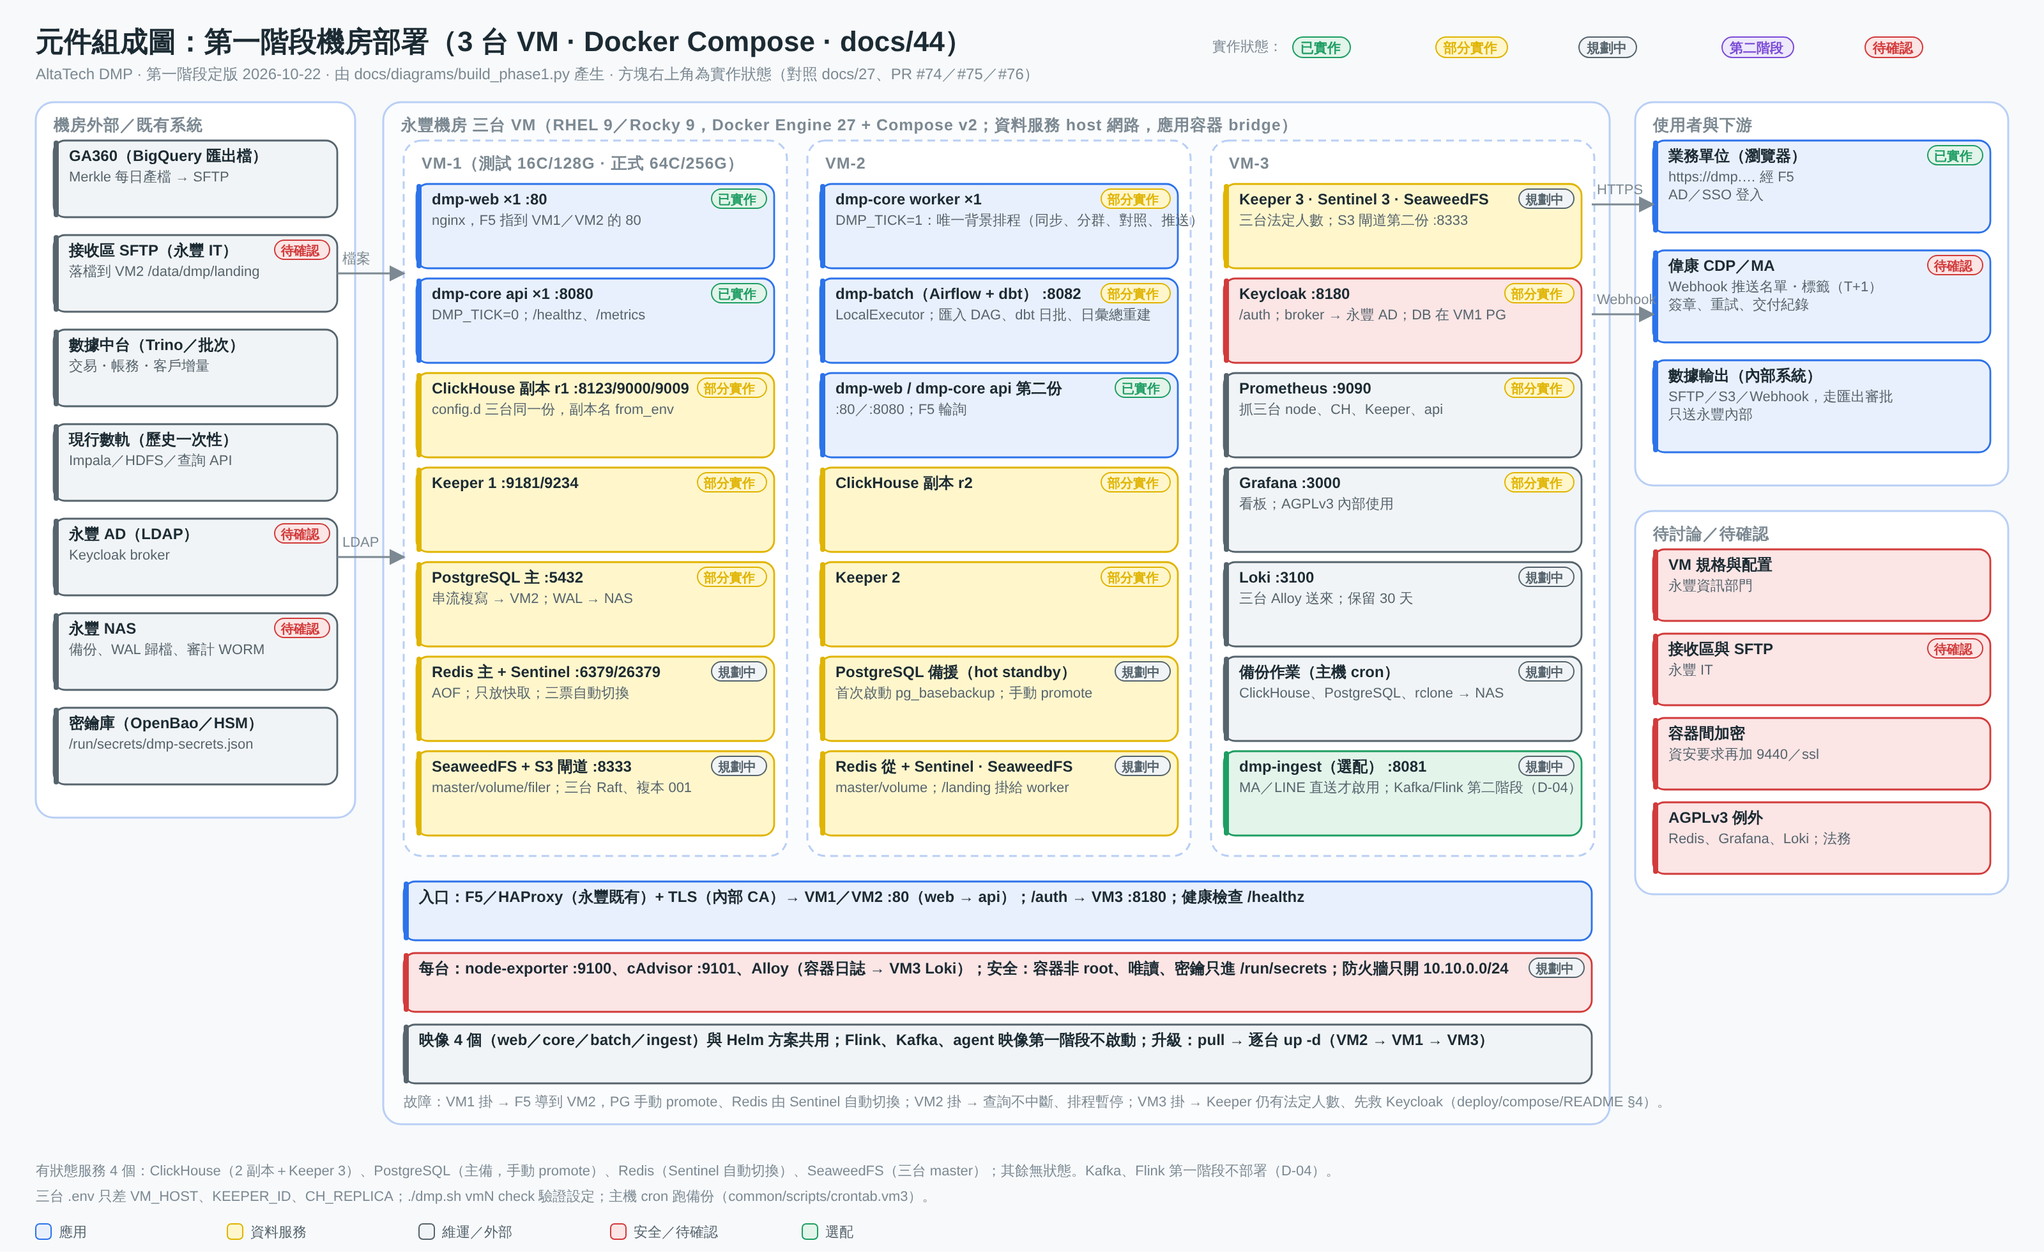
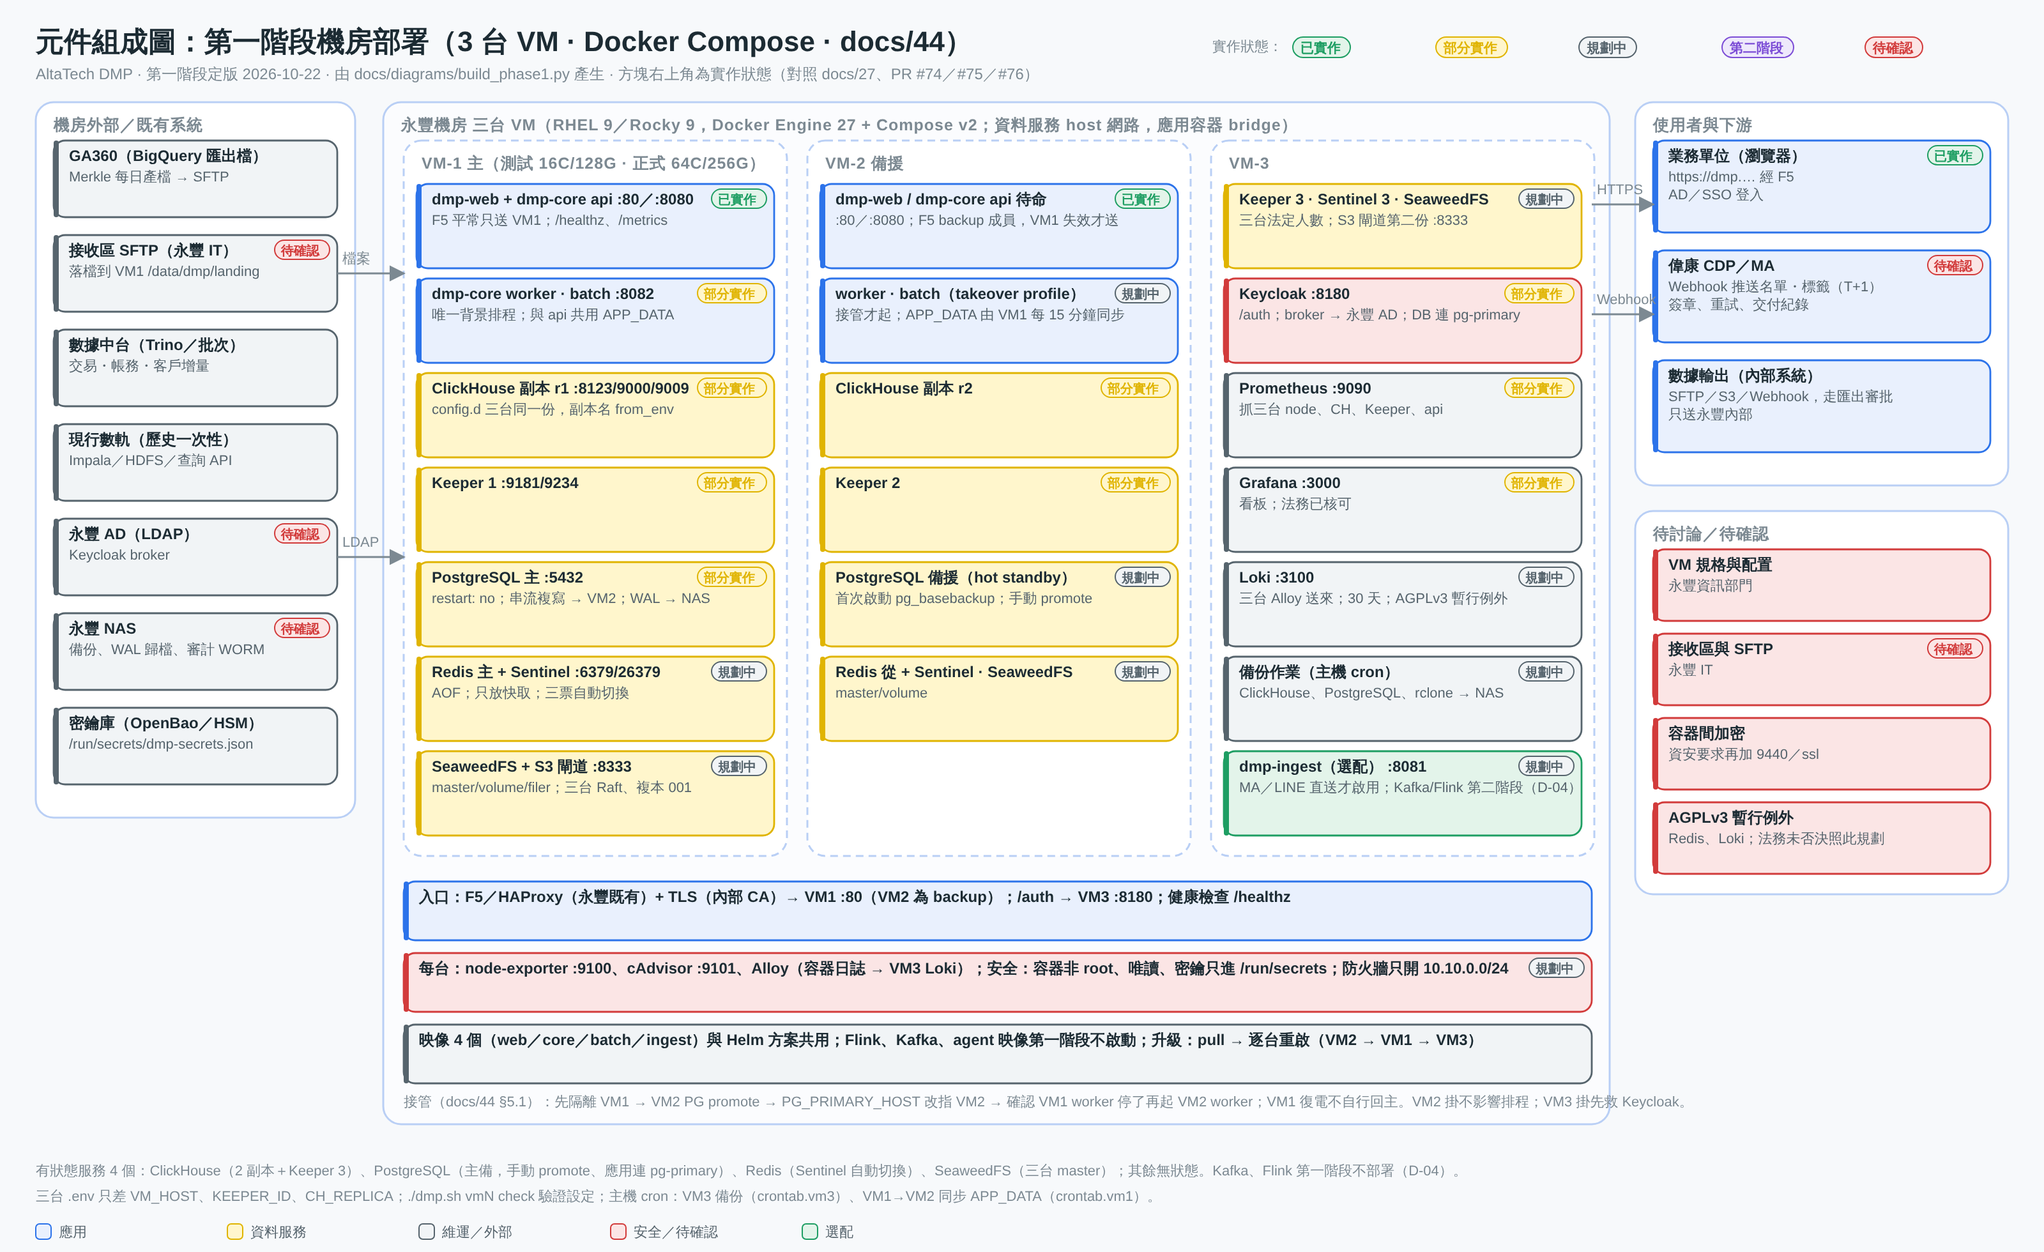
第一階段兩張圖改成主備拓樸，與 docs/44、deploy/compose 一致
圖上原本畫成 VM1、VM2 兩份 API 由 F5 輪詢、worker 與 batch 在 VM2，
和 docs/44 定案的主備做法、#76 的 compose 不一致，評審時會誤導。

- VM1 主：web、api、worker、batch 同一台共用 APP_DATA；VM2 備援待命，
  worker、batch 接管才起；F5 平常只送 VM1
- 應用與 Keycloak 一律連 pg-primary；VM1 主庫不自動重啟
- 故障說明改成 §5.1 接管順序（先隔離 VM1）
- 授權用語：Grafana 法務已核可；Redis、Loki 為暫行例外，法務未否決照此規劃

diff --git a/docs/diagrams/build_phase1.py b/docs/diagrams/build_phase1.py
@@ -11,7 +11,7 @@ build.STATUS[:0] = [
     ("Docker Compose", "planned"), ("3 台 VM", "planned"), ("Redis", "planned"), ("Loki", "planned"), ("Alloy", "planned"), ("cAdvisor", "planned"), ("Sentinel", "planned"), ("Keeper", "partial"),
     ("F5", "confirm"), ("SFTP", "confirm"), ("永豐 AD", "confirm"), ("永豐 NAS", "confirm"), ("偉康 CDP", "confirm"),
     ("微批處理", "partial"), ("去重", "partial"), ("先刪再寫", "planned"), ("OneID 歸戶", "done"), ("回補對照", "planned"), ("one_id_eff", "planned"),
-    ("dmp-core worker", "partial"), ("dmp-core api", "done"), ("dmp-batch（Airflow）", "partial"), ("SeaweedFS", "planned"), ("PostgreSQL 主", "partial"), ("PostgreSQL 備援", "planned"),
+    ("dmp-core worker", "partial"), ("dmp-core api", "done"), ("dmp-batch（Airflow）", "partial"), ("SeaweedFS", "planned"), ("PostgreSQL 主", "partial"), ("PostgreSQL 備援", "planned"), ("takeover", "planned"),
     ("ClickHouse 副本", "partial"), ("備份作業", "planned"), ("Prometheus + Grafana", "partial"), ("語意層", "done"), ("分析 API", "done"), ("分群與標籤", "partial"), ("名單推送", "partial"),
     ("日彙總重建", "partial"), ("Webhook 推送", "partial"), ("業務單位", "done"), ("個資守門", "done"), ("標準化", "partial"), ("入倉", "partial"), ("接收區", "confirm"),
     ("GA360 日批匯出檔", "done"), ("數據中台", "confirm"), ("舊平台歷史", "done"), ("MA 發送紀錄", "confirm"),
@@ -31,14 +31,14 @@ def system_architecture():
     s.group(L, 80, W, 100, "體驗層  Experience")
     for i, (t, ls) in enumerate([("DMP Web（React）", ["總覽／事件／漏斗／留存／路徑／歸因／用戶列表", "分群標籤／數據整合／權限中心／系統監控"]), ("業務單位（瀏覽器）", ["永豐 AD／SSO 登入", "儀表板、書籤、自助分析"]), ("偉康 CDP／MA", ["名單・標籤 Webhook 推送（T+1）", "MA 發送紀錄每日回流（待討論）"]), ("AI 工作台", ["技能庫、問數", "第二階段，部署套件保留"])]):
         s.box(L + 14 + i * 300, 110, 285, 60, t, ls, "purple" if i == 3 else "brand")
-    s.group(L, 195, W, 110, "語意與服務層  Semantic & Service（dmp-core api ×2，Python / FastAPI）")
+    s.group(L, 195, W, 110, "語意與服務層  Semantic & Service（dmp-core api：VM1 主、VM2 備援；Python / FastAPI）")
     for i, (t, ls) in enumerate([("語意層 + 查詢編譯器", ["YAML 語意定義 → ClickHouse SQL", "用戶口徑一律用 one_id_eff（回補換算）"]), ("分析 API", ["事件、漏斗、留存、路徑、歸因、用戶列表", "自定義 SQL 沙箱（sql_user profile）"]), ("分群與標籤 / OneID API", ["規則 → Bitmap；標籤 10 種；審批", "ID 綁定、人工合併（寫對照）、DSAR"]), ("Policy Engine", ["模組權限 → 行級 → 欄位隱碼 L0–L4 → 審批", "UI 與 REST 共用；每次授權寫審計"])]):
         s.box(L + 14 + i * 300, 225, 285, 70, t, ls, "brand")
     s.group(L, 320, W, 120, "處理層  微批處理（dmp-core worker ×1 ＋ dmp-batch Airflow＋dbt；ClickHouse SQL；第一階段不上 Flink）")
     for i, (t, ls) in enumerate([("匯入 + 個資守門", ["接收區檔案／Trino 增量 → 暫存表", "L4 欄位不進倉；個資樣式命中整列隔離"]), ("標準化 + 去重", ["橋接轉名、時間轉 UTC、HMAC 代碼化", "行為：time（毫秒）＋event_id；線下不去重"]), ("OneID 歸戶 + 回補對照", ["dictGet(id_map) 寫入時歸戶，事件不改寫", "登入 → 寫對照；查詢時換算"]), ("入倉 + 日彙總重建", ["ReplacingMergeTree，只新增／刪除", "L1 按日重建（近 8 天每日）；分群例行"])]):
         s.box(L + 14 + i * 300, 350, 285, 78, t, ls, "teal")
     s.group(L, 455, W, 110, "儲存層  Storage（四個有狀態服務，全部在永豐機房）")
-    for i, (t, ls, c) in enumerate([("ClickHouse ×2 + Keeper ×3", ["events（L0）、日彙總（L1）、Bitmap", "users／dim_*／id_map、回補對照字典"], "yellow"), ("PostgreSQL 主備 + pgvector", ["控制面：角色、審批、審計索引、分群定義", "Airflow 中繼資料、Keycloak"], "yellow"), ("Redis 主從 + Sentinel", ["查詢快取、估數快取、登入前狀態", "AGPLv3 內部使用例外（待法務）"], "yellow"), ("SeaweedFS（三台，S3）", ["master ×3、複本 001；備份桶、冷層", "→ rclone 同步到永豐 NAS"], "yellow")]):
+    for i, (t, ls, c) in enumerate([("ClickHouse ×2 + Keeper ×3", ["events（L0）、日彙總（L1）、Bitmap", "users／dim_*／id_map、回補對照字典"], "yellow"), ("PostgreSQL 主備 + pgvector", ["控制面：角色、審批、審計、登入 session", "Airflow 中繼資料、Keycloak；連 pg-primary"], "yellow"), ("Redis 主從 + Sentinel", ["查詢快取、估數快取", "AGPLv3 暫行例外（法務未否決照此規劃）"], "yellow"), ("SeaweedFS（三台，S3）", ["master ×3、複本 001；備份桶、冷層", "→ rclone 同步到永豐 NAS"], "yellow")]):
         s.box(L + 14 + i * 300, 485, 285, 68, t, ls, c)
     s.group(L, 580, W, 110, "接入層  Ingestion（檔案／表 → 暫存表，每日或每 15 分鐘）")
     for i, (t, ls) in enumerate([("GA360 日批匯出檔", ["BigQuery → CSV／Parquet（Merkle 送出）", "每日產檔 T+1，資料新鮮度 T-2"]), ("接收區（SFTP，永豐 IT）", ["GA 匯出檔、MA 發送紀錄落檔", "worker 唯讀掛載 /landing"]), ("數據中台（Trino／批次）", ["交易・帳務・客戶：每日或 15 分鐘增量", "方式待討論；Kafka 第一階段不用"]), ("舊平台歷史（一次性）", ["Impala／HDFS／查詢 API → 2024-01 起", "走同一套標準化與歸戶"])]):
@@ -59,13 +59,13 @@ def system_architecture():
     s.box(X + 12, 238, GW - 24, 56, "審計與法遵", ["audit_log append-only → NAS", "匯出浮水印、揭露申請、DSAR"], "red")
     s.group(X, 320, GW, 160, "觀測  Observability（VM3）")
     s.box(X + 12, 350, GW - 24, 56, "Prometheus + Grafana", ["node、ClickHouse、Keeper、API /metrics", "告警 → Email／LINE（/v1/ops/notify）"], "gray")
-    s.box(X + 12, 414, GW - 24, 56, "Loki + Alloy", ["三台容器 stdout（Alloy 收），保留 30 天", "Loki AGPLv3 內部使用例外（待法務）"], "gray")
-    s.group(X, 495, GW, 232, "部署  Delivery（docs/07 §1.3、deploy/compose）")
-    s.box(X + 12, 525, GW - 24, 72, "3 台 VM Docker Compose", ["VM1 web/api/CH r1/PG 主/Redis 主", "VM2 worker/batch/CH r2/PG 備", "VM3 Keeper 3/Keycloak/監控/備份；docs/44"], "gray")
+    s.box(X + 12, 414, GW - 24, 56, "Loki + Alloy", ["三台容器 stdout（Alloy 收），保留 30 天", "Loki AGPLv3 暫行例外（法務未否決照此規劃）"], "gray")
+    s.group(X, 495, GW, 232, "部署  Delivery（docs/44、deploy/compose）")
+    s.box(X + 12, 525, GW - 24, 72, "3 台 VM Docker Compose", ["VM1 主：web/api/worker/batch/CH r1/PG 主", "VM2 備援：web/api 待命/CH r2/PG 備", "VM3 Keeper 3/Keycloak/監控/備份；docs/44"], "gray")
     s.box(X + 12, 603, GW - 24, 52, "入口：F5／HAProxy + TLS", ["內部 CA；/auth → Keycloak", "容器間內網；加密待討論"], "gray")
     s.box(X + 12, 661, GW - 24, 56, "備份作業 → 永豐 NAS", ["ClickHouse 日增量／週全量（S3）", "PostgreSQL WAL 歸檔＋日 dump"], "gray")
     s.group(X, 740, GW, 120, "供應鏈與授權（docs/32）")
-    s.box(X + 12, 770, GW - 24, 78, "映像 4 個（web/core/batch/ingest）", ["UBI 9／distroless、SBOM、Trivy", "全部 OSI；AGPLv3 例外：Redis、Grafana、Loki", "待法務核可；退路 Valkey／VictoriaLogs"], "gray")
+    s.box(X + 12, 770, GW - 24, 78, "映像 4 個（web/core/batch/ingest）", ["UBI 9／distroless、SBOM、Trivy", "全部 OSI；Grafana 法務已核可", "Redis、Loki 暫行例外；退路 Valkey／VictoriaLogs"], "gray")
     s.legend(L + 14, 988, [("brand", "體驗／服務"), ("teal", "微批處理"), ("yellow", "儲存"), ("green", "接入"), ("purple", "第二階段"), ("red", "安全"), ("gray", "來源／支撐")])
     s.save("phase1-system-architecture.svg")
 
@@ -74,35 +74,35 @@ def system_architecture():
 def component_deployment():
     s = SVG(1600, 980, "元件組成圖：第一階段機房部署（3 台 VM · Docker Compose · docs/44）"); stamp(s)
     s.group(28, 80, 250, 560, "機房外部／既有系統")
-    for i, (t, ls) in enumerate([("GA360（BigQuery 匯出檔）", ["Merkle 每日產檔 → SFTP"]), ("接收區 SFTP（永豐 IT）", ["落檔到 VM2 /data/dmp/landing"]), ("數據中台（Trino／批次）", ["交易・帳務・客戶增量"]), ("現行數軌（歷史一次性）", ["Impala／HDFS／查詢 API"]), ("永豐 AD（LDAP）", ["Keycloak broker"]), ("永豐 NAS", ["備份、WAL 歸檔、審計 WORM"]), ("密鑰庫（OpenBao／HSM）", ["/run/secrets/dmp-secrets.json"])]):
+    for i, (t, ls) in enumerate([("GA360（BigQuery 匯出檔）", ["Merkle 每日產檔 → SFTP"]), ("接收區 SFTP（永豐 IT）", ["落檔到 VM1 /data/dmp/landing"]), ("數據中台（Trino／批次）", ["交易・帳務・客戶增量"]), ("現行數軌（歷史一次性）", ["Impala／HDFS／查詢 API"]), ("永豐 AD（LDAP）", ["Keycloak broker"]), ("永豐 NAS", ["備份、WAL 歸檔、審計 WORM"]), ("密鑰庫（OpenBao／HSM）", ["/run/secrets/dmp-secrets.json"])]):
         s.box(42, 110 + i * 74, 222, 60, t, ls, "gray", small=True)
     s.group(300, 80, 960, 800, "永豐機房  三台 VM（RHEL 9／Rocky 9，Docker Engine 27 + Compose v2；資料服務 host 網路，應用容器 bridge）", fill="#FBFCFE")
     vms = [
-        ("VM-1（測試 16C/128G · 正式 64C/256G）", [("dmp-web ×1  :80", "nginx，F5 指到 VM1／VM2 的 80", "brand"), ("dmp-core api ×1  :8080", "DMP_TICK=0；/healthz、/metrics", "brand"), ("ClickHouse 副本 r1  :8123/9000/9009", "config.d 三台同一份，副本名 from_env", "yellow"), ("Keeper 1  :9181/9234", "", "yellow"), ("PostgreSQL 主  :5432", "串流複寫 → VM2；WAL → NAS", "yellow"), ("Redis 主 + Sentinel  :6379/26379", "AOF；只放快取；三票自動切換", "yellow"), ("SeaweedFS + S3 閘道 :8333", "master/volume/filer；三台 Raft、複本 001", "yellow")]),
-        ("VM-2", [("dmp-core worker ×1", "DMP_TICK=1：唯一背景排程（同步、分群、對照、推送）", "brand"), ("dmp-batch（Airflow + dbt）  :8082", "LocalExecutor；匯入 DAG、dbt 日批、日彙總重建", "brand"), ("dmp-web / dmp-core api 第二份", ":80／:8080；F5 輪詢", "brand"), ("ClickHouse 副本 r2", "", "yellow"), ("Keeper 2", "", "yellow"), ("PostgreSQL 備援（hot standby）", "首次啟動 pg_basebackup；手動 promote", "yellow"), ("Redis 從 + Sentinel · SeaweedFS", "master/volume；/landing 掛給 worker", "yellow")]),
-        ("VM-3", [("Keeper 3 · Sentinel 3 · SeaweedFS", "三台法定人數；S3 閘道第二份 :8333", "yellow"), ("Keycloak  :8180", "/auth；broker → 永豐 AD；DB 在 VM1 PG", "red"), ("Prometheus  :9090", "抓三台 node、CH、Keeper、api", "gray"), ("Grafana  :3000", "看板；AGPLv3 內部使用", "gray"), ("Loki  :3100", "三台 Alloy 送來；保留 30 天", "gray"), ("備份作業（主機 cron）", "ClickHouse、PostgreSQL、rclone → NAS", "gray"), ("dmp-ingest（選配）  :8081", "MA／LINE 直送才啟用；Kafka/Flink 第二階段（D-04）", "green")]),
+        ("VM-1 主（測試 16C/128G · 正式 64C/256G）", [("dmp-web + dmp-core api  :80／:8080", "F5 平常只送 VM1；/healthz、/metrics", "brand"), ("dmp-core worker · batch :8082", "唯一背景排程；與 api 共用 APP_DATA", "brand"), ("ClickHouse 副本 r1  :8123/9000/9009", "config.d 三台同一份，副本名 from_env", "yellow"), ("Keeper 1  :9181/9234", "", "yellow"), ("PostgreSQL 主  :5432", "restart: no；串流複寫 → VM2；WAL → NAS", "yellow"), ("Redis 主 + Sentinel  :6379/26379", "AOF；只放快取；三票自動切換", "yellow"), ("SeaweedFS + S3 閘道 :8333", "master/volume/filer；三台 Raft、複本 001", "yellow")]),
+        ("VM-2 備援", [("dmp-web / dmp-core api 待命", ":80／:8080；F5 backup 成員，VM1 失效才送", "brand"), ("worker · batch（takeover profile）", "接管才起；APP_DATA 由 VM1 每 15 分鐘同步", "brand"), ("ClickHouse 副本 r2", "", "yellow"), ("Keeper 2", "", "yellow"), ("PostgreSQL 備援（hot standby）", "首次啟動 pg_basebackup；手動 promote", "yellow"), ("Redis 從 + Sentinel · SeaweedFS", "master/volume", "yellow")]),
+        ("VM-3", [("Keeper 3 · Sentinel 3 · SeaweedFS", "三台法定人數；S3 閘道第二份 :8333", "yellow"), ("Keycloak  :8180", "/auth；broker → 永豐 AD；DB 連 pg-primary", "red"), ("Prometheus  :9090", "抓三台 node、CH、Keeper、api", "gray"), ("Grafana  :3000", "看板；法務已核可", "gray"), ("Loki  :3100", "三台 Alloy 送來；30 天；AGPLv3 暫行例外", "gray"), ("備份作業（主機 cron）", "ClickHouse、PostgreSQL、rclone → NAS", "gray"), ("dmp-ingest（選配）  :8081", "MA／LINE 直送才啟用；Kafka/Flink 第二階段（D-04）", "green")]),
     ]
     for i, (name, items) in enumerate(vms):
         x = 316 + i * 316; y = 110
         s.group(x, y, 300, 560, name, fill="#FFFFFF", dash=True)
         for j, (t, sub, col) in enumerate(items):
             s.box(x + 10, y + 34 + j * 74, 280, 66, t, [sub] if sub else [], col, small=True)
-    s.box(316, 690, 930, 46, "入口：F5／HAProxy（永豐既有）+ TLS（內部 CA）→ VM1／VM2 :80（web → api）；/auth → VM3 :8180；健康檢查 /healthz", [], "brand", small=True)
+    s.box(316, 690, 930, 46, "入口：F5／HAProxy（永豐既有）+ TLS（內部 CA）→ VM1 :80（VM2 為 backup）；/auth → VM3 :8180；健康檢查 /healthz", [], "brand", small=True)
     s.box(316, 746, 930, 46, "每台：node-exporter :9100、cAdvisor :9101、Alloy（容器日誌 → VM3 Loki）；安全：容器非 root、唯讀、密鑰只進 /run/secrets；防火牆只開 10.10.0.0/24", [], "red", small=True)
-    s.box(316, 802, 930, 46, "映像 4 個（web／core／batch／ingest）與 Helm 方案共用；Flink、Kafka、agent 映像第一階段不啟動；升級：pull → 逐台 up -d（VM2 → VM1 → VM3）", [], "gray", small=True)
-    s.note(316, 866, "故障：VM1 掛 → F5 導到 VM2，PG 手動 promote、Redis 由 Sentinel 自動切換；VM2 掛 → 查詢不中斷、排程暫停；VM3 掛 → Keeper 仍有法定人數、先救 Keycloak（deploy/compose/README §4）。")
+    s.box(316, 802, 930, 46, "映像 4 個（web／core／batch／ingest）與 Helm 方案共用；Flink、Kafka、agent 映像第一階段不啟動；升級：pull → 逐台重啟（VM2 → VM1 → VM3）", [], "gray", small=True)
+    s.note(316, 866, "接管（docs/44 §5.1）：先隔離 VM1 → VM2 PG promote → PG_PRIMARY_HOST 改指 VM2 → 確認 VM1 worker 停了再起 VM2 worker；VM1 復電不自行回主。VM2 掛不影響排程；VM3 掛先救 Keycloak。")
     s.group(1280, 80, 292, 300, "使用者與下游")
     for i, (t, ls) in enumerate([("業務單位（瀏覽器）", ["https://dmp.… 經 F5", "AD／SSO 登入"]), ("偉康 CDP／MA", ["Webhook 推送名單・標籤（T+1）", "簽章、重試、交付紀錄"]), ("數據輸出（內部系統）", ["SFTP／S3／Webhook，走匯出審批", "只送永豐內部"])]):
         s.box(1294, 110 + i * 86, 264, 72, t, ls, "brand", small=True)
     s.group(1280, 400, 292, 300, "待討論／待確認")
-    for i, (t, ls) in enumerate([("VM 規格與配置", ["永豐資訊部門"]), ("接收區與 SFTP", ["永豐 IT"]), ("容器間加密", ["資安要求再加 9440／ssl"]), ("AGPLv3 例外", ["Redis、Grafana、Loki；法務"])]):
+    for i, (t, ls) in enumerate([("VM 規格與配置", ["永豐資訊部門"]), ("接收區與 SFTP", ["永豐 IT"]), ("容器間加密", ["資安要求再加 9440／ssl"]), ("AGPLv3 暫行例外", ["Redis、Loki；法務未否決照此規劃"])]):
         s.box(1294, 430 + i * 66, 264, 56, t, ls, "red", small=True)
     s.arrow(264, 214, 316, 214); s.note(268, 206, "檔案")
     s.arrow(264, 436, 316, 436); s.note(268, 428, "LDAP")
     s.arrow(1246, 160, 1294, 160); s.note(1250, 152, "HTTPS")
     s.arrow(1246, 246, 1294, 246); s.note(1250, 238, "Webhook")
-    s.note(28, 920, "有狀態服務 4 個：ClickHouse（2 副本＋Keeper 3）、PostgreSQL（主備，手動 promote）、Redis（Sentinel 自動切換）、SeaweedFS（三台 master）；其餘無狀態。Kafka、Flink 第一階段不部署（D-04）。")
-    s.note(28, 940, "三台 .env 只差 VM_HOST、KEEPER_ID、CH_REPLICA；./dmp.sh vmN check 驗證設定；主機 cron 跑備份（common/scripts/crontab.vm3）。")
+    s.note(28, 920, "有狀態服務 4 個：ClickHouse（2 副本＋Keeper 3）、PostgreSQL（主備，手動 promote、應用連 pg-primary）、Redis（Sentinel 自動切換）、SeaweedFS（三台 master）；其餘無狀態。Kafka、Flink 第一階段不部署（D-04）。")
+    s.note(28, 940, "三台 .env 只差 VM_HOST、KEEPER_ID、CH_REPLICA；./dmp.sh vmN check 驗證設定；主機 cron：VM3 備份（crontab.vm3）、VM1→VM2 同步 APP_DATA（crontab.vm1）。")
     s.legend(28, 968, [("brand", "應用"), ("yellow", "資料服務"), ("gray", "維運／外部"), ("red", "安全／待確認"), ("green", "選配")])
     s.save("phase1-component-deployment.svg")
 
